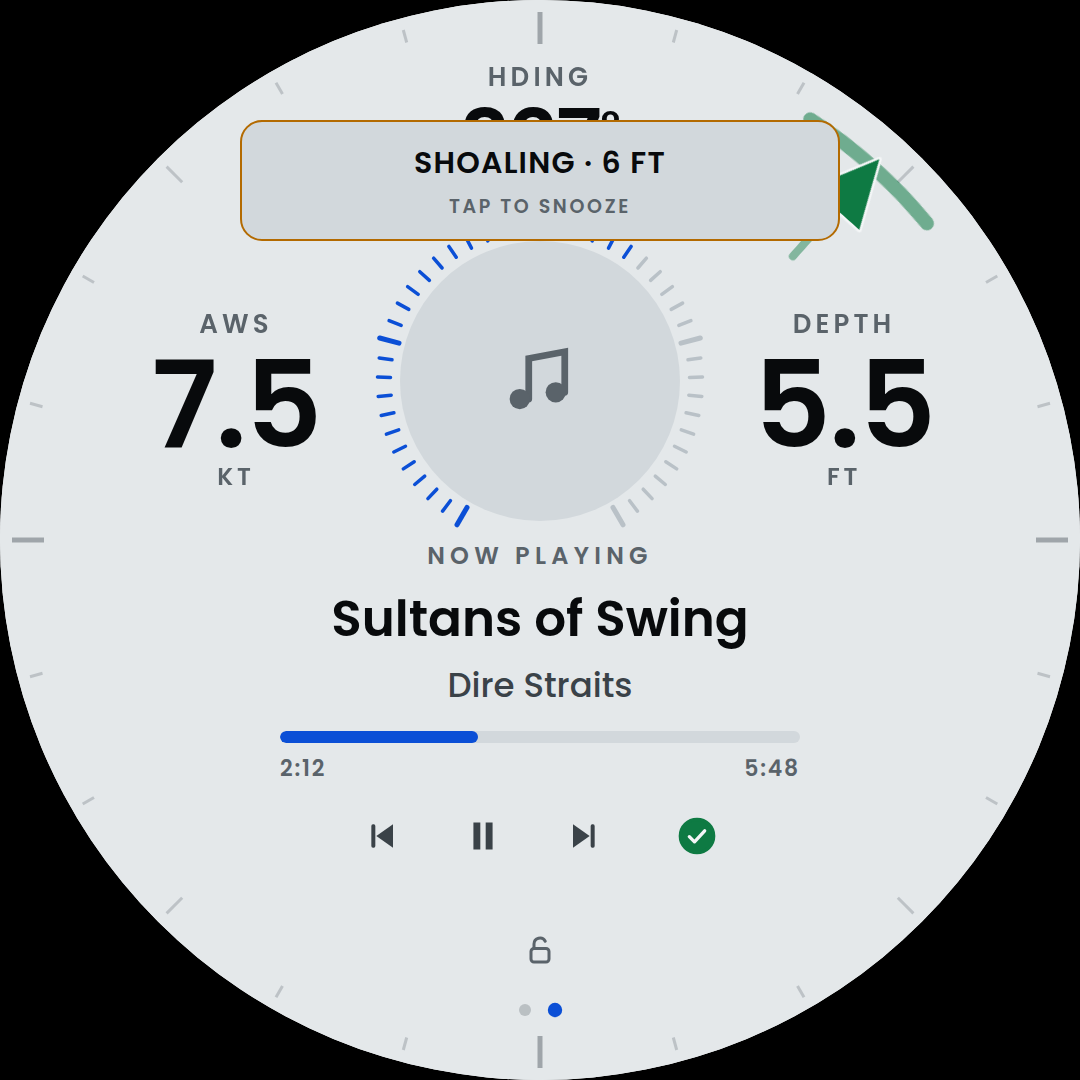
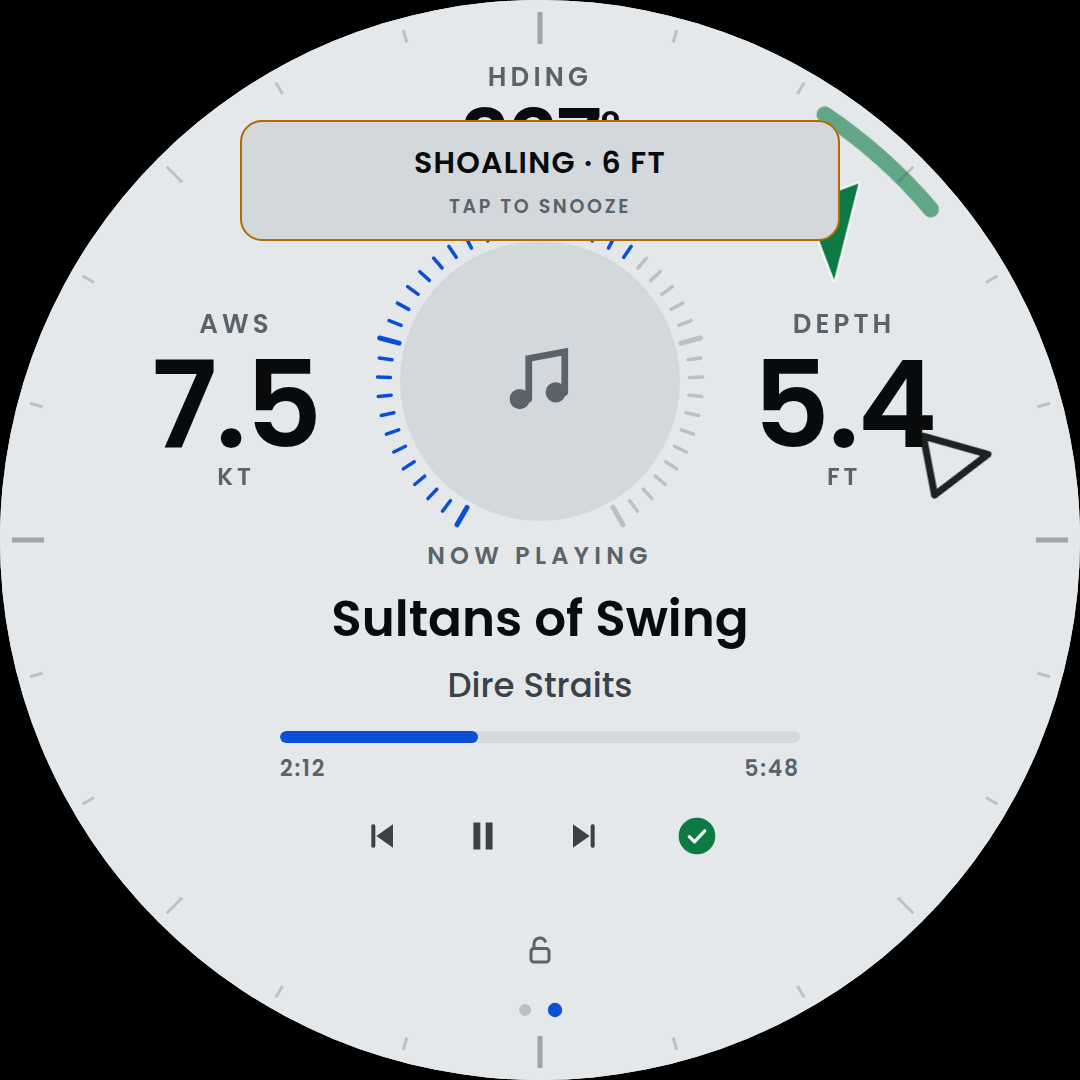
The music page carries the dial's wind marks, both winds
The wedge and tail go; the music bezel gets the dial's marks exactly -
the filled, haloed apparent arrow with its band, the same paths at the
same radii, and the hollow true-wind triangle, which it did not have.
Each group rotates to its own angle the short way round, the true wind
off the dial's smoothed angle like the apparent.

Claude-Session: https://claude.ai/code/session_01BmvizJiQLmvpEFfAxzaKX2

Changed region(s): [[0.7333, 0.0917, 0.8861, 0.2444], [0.7944, 0.3361, 0.9167, 0.4583], [0.7333, 0.3667, 0.7639, 0.3972]]

diff --git a/confluence_helm.html b/confluence_helm.html
@@ -987,13 +987,15 @@ a.lib-row{text-decoration:none;color:inherit}
   transition:transform .26s linear, opacity .35s;
   opacity:0}
 #mb-wind.on{opacity:1}
+#mb-twa{transform-box:view-box;transform-origin:540px 540px;transition:transform .26s linear, opacity .35s;opacity:0}
+#mb-twa.on{opacity:.9}
+#mb-twa path{fill:none;stroke:var(--ink);stroke-width:7;stroke-linejoin:round}
 .mb-wedge{fill:var(--accent);stroke:var(--bg);stroke-width:5;stroke-linejoin:round;paint-order:stroke}
-.mb-tail{fill:none;stroke:var(--accent);stroke-width:8;stroke-linecap:round;opacity:.45}
-.mb-arc{fill:none;stroke:var(--accent);stroke-width:14;stroke-linecap:round;opacity:.55}
+.mb-arc{fill:none;stroke:var(--accent);stroke-width:16;stroke-linecap:round;opacity:.6}
 #mb-wind.port .mb-wedge{fill:var(--port)}
-#mb-wind.port .mb-tail,#mb-wind.port .mb-arc{stroke:var(--port)}
+#mb-wind.port .mb-arc{stroke:var(--port)}
 #mb-wind.stbd .mb-wedge{fill:var(--stbd)}
-#mb-wind.stbd .mb-tail,#mb-wind.stbd .mb-arc{stroke:var(--stbd)}
+#mb-wind.stbd .mb-arc{stroke:var(--stbd)}
 
 /* One quiet row above the art. The instruments are context for the
    music here, not the subject - the dial proper is where you read them
@@ -1803,13 +1805,15 @@ document.body.className = THEME_EFF==='day' ? '' : THEME_EFF;
 <div id="music">
   <svg class="m-bezel" viewBox="0 0 1080 1080" aria-hidden="true">
     <g id="mb-ticks"></g>
+    <!-- The dial's marks, exactly: the hollow triangle for true wind and
+         the filled, haloed arrow with its band for apparent, at the
+         same radii, each group rotating to its angle. -->
+    <g id="mb-twa">
+      <path d="M540 84 L570 144 L510 144 Z"/>
+    </g>
     <g id="mb-wind">
-      <!-- drawn at the bow; the whole group rotates to the wind angle.
-           The same treatment as the dial's: a band on the ring behind
-           the wedge, a haloed edge, and half again the size. -->
-      <path class="mb-arc" d="M461.8 46.2 A500 500 0 0 1 618.2 46.2"/>
-      <path class="mb-tail" d="M540 96 L540 160"/>
-      <path class="mb-wedge" d="M540 30 L572 96 L508 96 Z"/>
+      <path class="mb-arc" d="M468.7 33.0 A512 512 0 0 1 611.3 33.0"/>
+      <path class="mb-wedge" d="M540 62 L586 150 L540 126 L494 150 Z"/>
     </g>
   </svg>
   <div class="m-sheet">
@@ -5152,10 +5156,21 @@ function drawBezelTicks(){
    dial. Track a continuous angle and always add the short way about. */
 const shortWay=(from,to)=>{ let d=(to-from)%360;
   if(d>180)d-=360; if(d<-180)d+=360; return d; };
-let bezelCont=null;
+let bezelCont=null, bezelContT=null;
 
 function paintBezel(){
   const g=$('mb-wind'); if(!g) return;
+  /* true wind first: the hollow triangle, the dial's, the short way round */
+  const tg=$('mb-twa');
+  let tdeg=smoothedAngle('twa');
+  if(tdeg===null){ const t=get('environment.wind.angleTrueWater'); tdeg = t===null?null:t*DEG; }
+  if(tdeg===null){ tg.classList.remove('on'); bezelContT=null; }
+  else{
+    tg.classList.add('on');
+    if(bezelContT===null){ bezelContT=tdeg; tg.style.transform=`rotate(${tdeg.toFixed(1)}deg)`; }
+    else{ const d=shortWay(bezelContT,tdeg);
+      if(Math.abs(d)>0.12){ bezelContT+=d; tg.style.transform=`rotate(${bezelContT.toFixed(1)}deg)`; } }
+  }
   /* take the dial's already-filtered angle so the bezel is not fed raw
      4 Hz steps; fall back to raw only if the dial has not seen it yet */
   let deg=smoothedAngle('awa');
